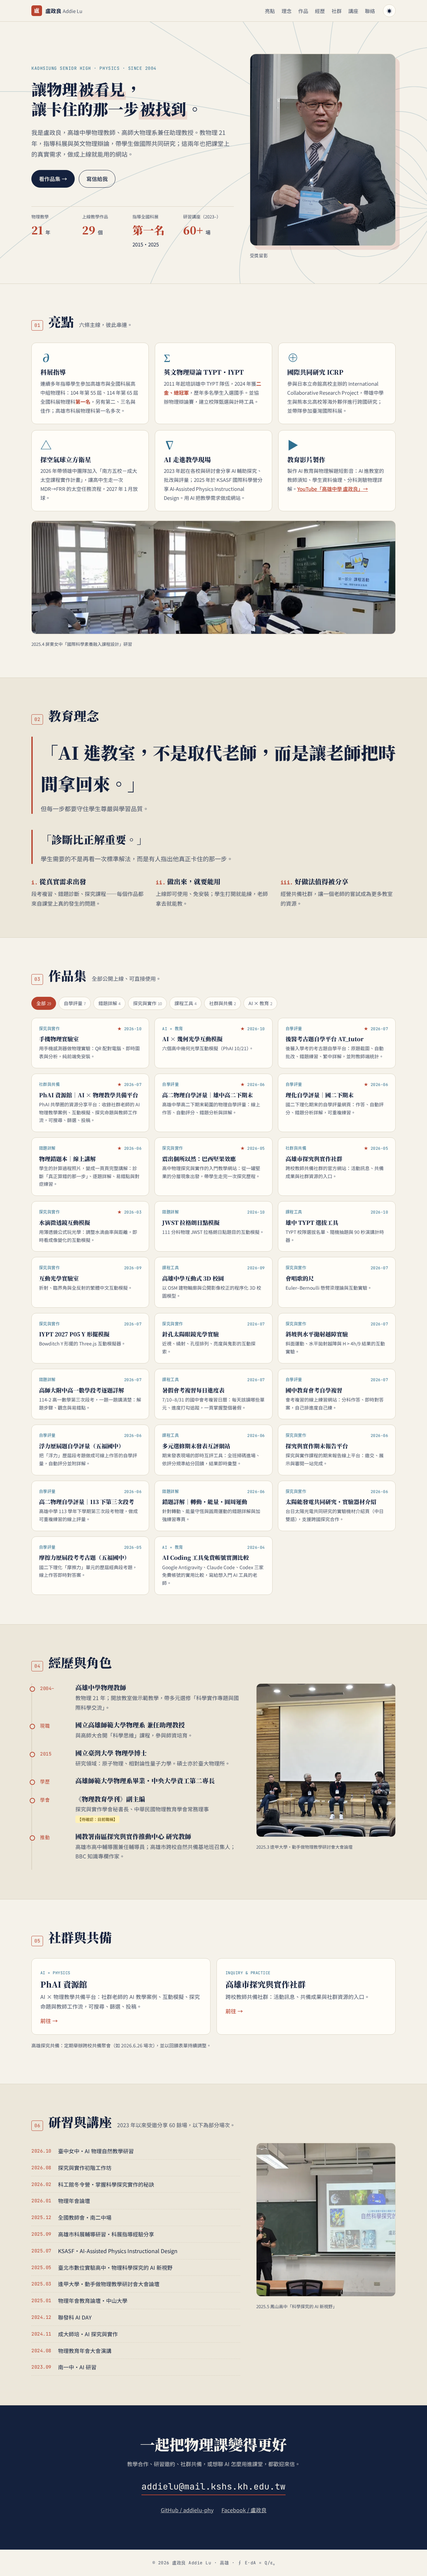
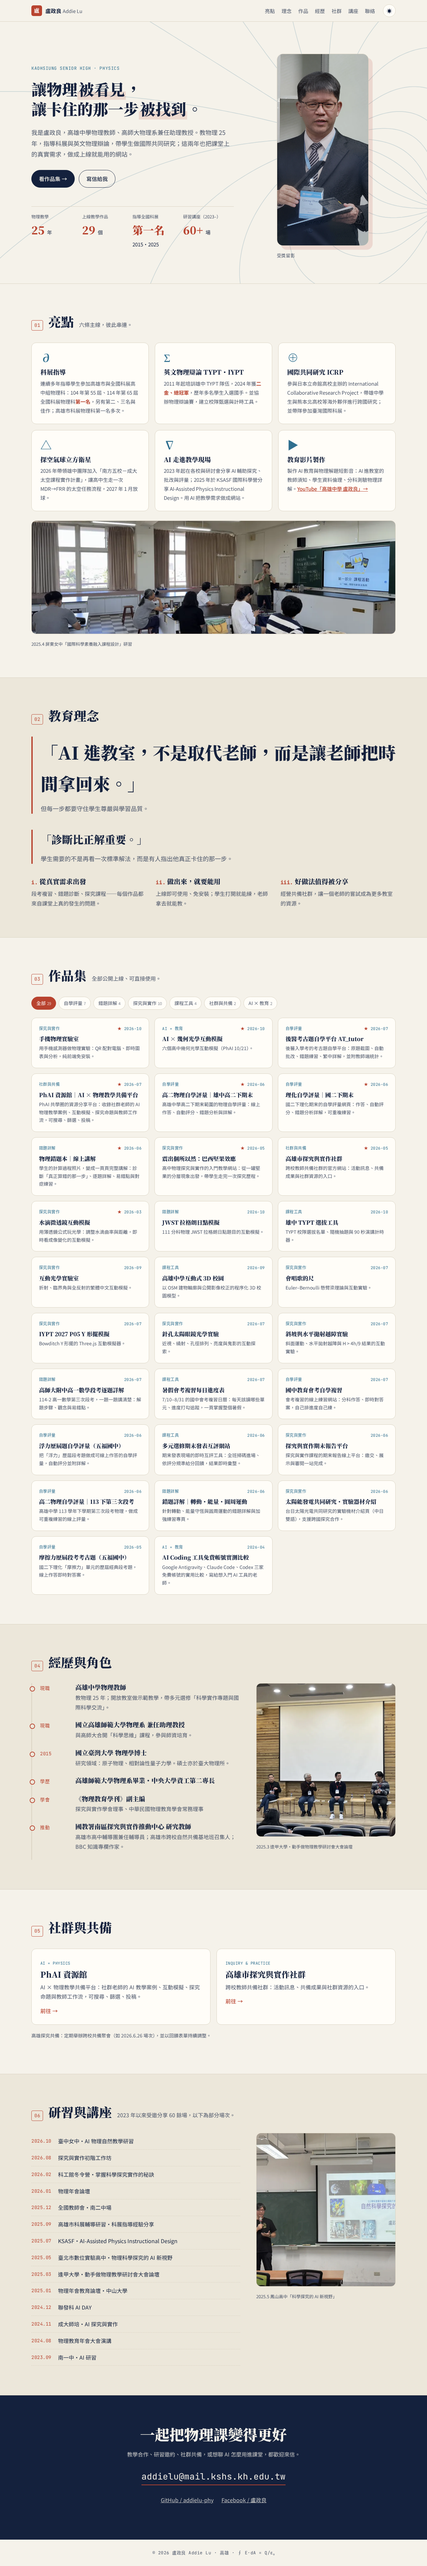
Confirm titles, 25 years, remove placeholders, smaller portrait

diff --git a/index.html b/index.html
@@ -15,12 +15,12 @@
 <section class="hero" id="top">
 <svg class="field" viewBox="0 0 1200 560" preserveAspectRatio="xMidYMid slice" aria-hidden="true"><g id="lines"></g></svg>
 <div class="wrap hero-in"><div class="hero-text">
-<p class="kicker mono">KAOHSIUNG SENIOR HIGH · PHYSICS · SINCE 2004</p>
+<p class="kicker mono">KAOHSIUNG SENIOR HIGH · PHYSICS</p>
 <h1>讓物理<span class="hl">被看見</span>，<br><span class="nw">讓卡住的那一步<span class="hl">被找到</span>。</span></h1>
-<p class="lede">我是盧政良，高雄中學物理教師、高師大物理系兼任助理教授。教物理 21 年，指導科展與英文物理辯論，帶學生做國際共同研究；這兩年也把課堂上的真實需求，做成上線就能用的網站。</p>
+<p class="lede">我是盧政良，高雄中學物理教師、高師大物理系兼任助理教授。教物理 25 年，指導科展與英文物理辯論，帶學生做國際共同研究；這兩年也把課堂上的真實需求，做成上線就能用的網站。</p>
 <div class="cta"><a class="btn primary" href="#works">看作品集 →</a><a class="btn" href="mailto:addielu@mail.kshs.kh.edu.tw">寫信給我</a></div>
 <dl class="stats">
-<div><dt>物理教學</dt><dd><b>21</b> 年</dd></div>
+<div><dt>物理教學</dt><dd><b>25</b> 年</dd></div>
 <div><dt>上線教學作品</dt><dd><b id="count">29</b> 個</dd></div>
 <div><dt>指導全國科展</dt><dd><b>第一名</b> 2015・2025</dd></div>
 <div><dt>研習講座（2023–）</dt><dd><b>60+</b> 場</dd></div>
@@ -55,11 +55,11 @@
 
 <section id="path" class="band"><div class="wrap sec"><header class="sh"><span class="mono num">04</span><h2>經歷與角色</h2></header>
 <div class="path-grid"><ol class="timeline">
-<li><span class="mono t">2004–</span><div><h3>高雄中學物理教師</h3><p>教物理 21 年；開放教室做示範教學，帶多元選修「科學實作專題與國際科學交流」。</p></div></li>
+<li><span class="mono t">現職</span><div><h3>高雄中學物理教師</h3><p>教物理 25 年；開放教室做示範教學，帶多元選修「科學實作專題與國際科學交流」。</p></div></li>
 <li><span class="mono t">現職</span><div><h3>國立高雄師範大學物理系 兼任助理教授</h3><p>與高師大合開「科學思維」課程，參與師資培育。</p></div></li>
 <li><span class="mono t">2015</span><div><h3>國立臺灣大學 物理學博士</h3><p>研究領域：原子物理、相對論性量子力學。碩士亦於臺大物理所。</p></div></li>
 <li><span class="mono t">學歷</span><div><h3>高雄師範大學物理系畢業・中央大學資工第二專長</h3></div></li>
-<li><span class="mono t">學會</span><div><h3>《物理教育學刊》副主編</h3><p>探究與實作學會秘書長、中華民國物理教育學會常務理事 <span class="tbc">【待確認：目前職稱】</span></p></div></li>
+<li><span class="mono t">學會</span><div><h3>《物理教育學刊》副主編</h3><p>探究與實作學會理事、中華民國物理教育學會常務理事</p></div></li>
 <li><span class="mono t">推動</span><div><h3>國教署南區探究與實作推動中心 研究教師</h3><p>高雄市高中輔導團兼任輔導員；高雄市跨校自然共備基地班召集人；BBC 知識專欄作家。</p></div></li>
 </ol>
 <figure class="side-photo"><img src="img/forum-fcu.webp" width="675" height="900" loading="lazy" alt="2025 動手做物理教學研討會大會論壇與談"><figcaption>2025.3 逢甲大學・動手做物理教學研討會大會論壇</figcaption></figure></div></div></section>

diff --git a/style.css b/style.css
@@ -75,3 +75,4 @@ figure figcaption{font-size:13px;color:var(--ink2);margin-top:10px}
 .side-photo img{max-height:460px;aspect-ratio:4/3}
 @media(max-width:640px){.hero h1{font-size:30px}}
 .nw{white-space:nowrap}.hero h1{font-size:clamp(28px,3.8vw,46px)}@media(max-width:640px){.hero h1{font-size:clamp(24px,7.6vw,30px)}}
+.hero-photo{max-width:275px;justify-self:center;width:100%}@media(max-width:900px){.hero-photo{max-width:420px}}@media(max-width:640px){.hero-photo{max-width:80%}}
